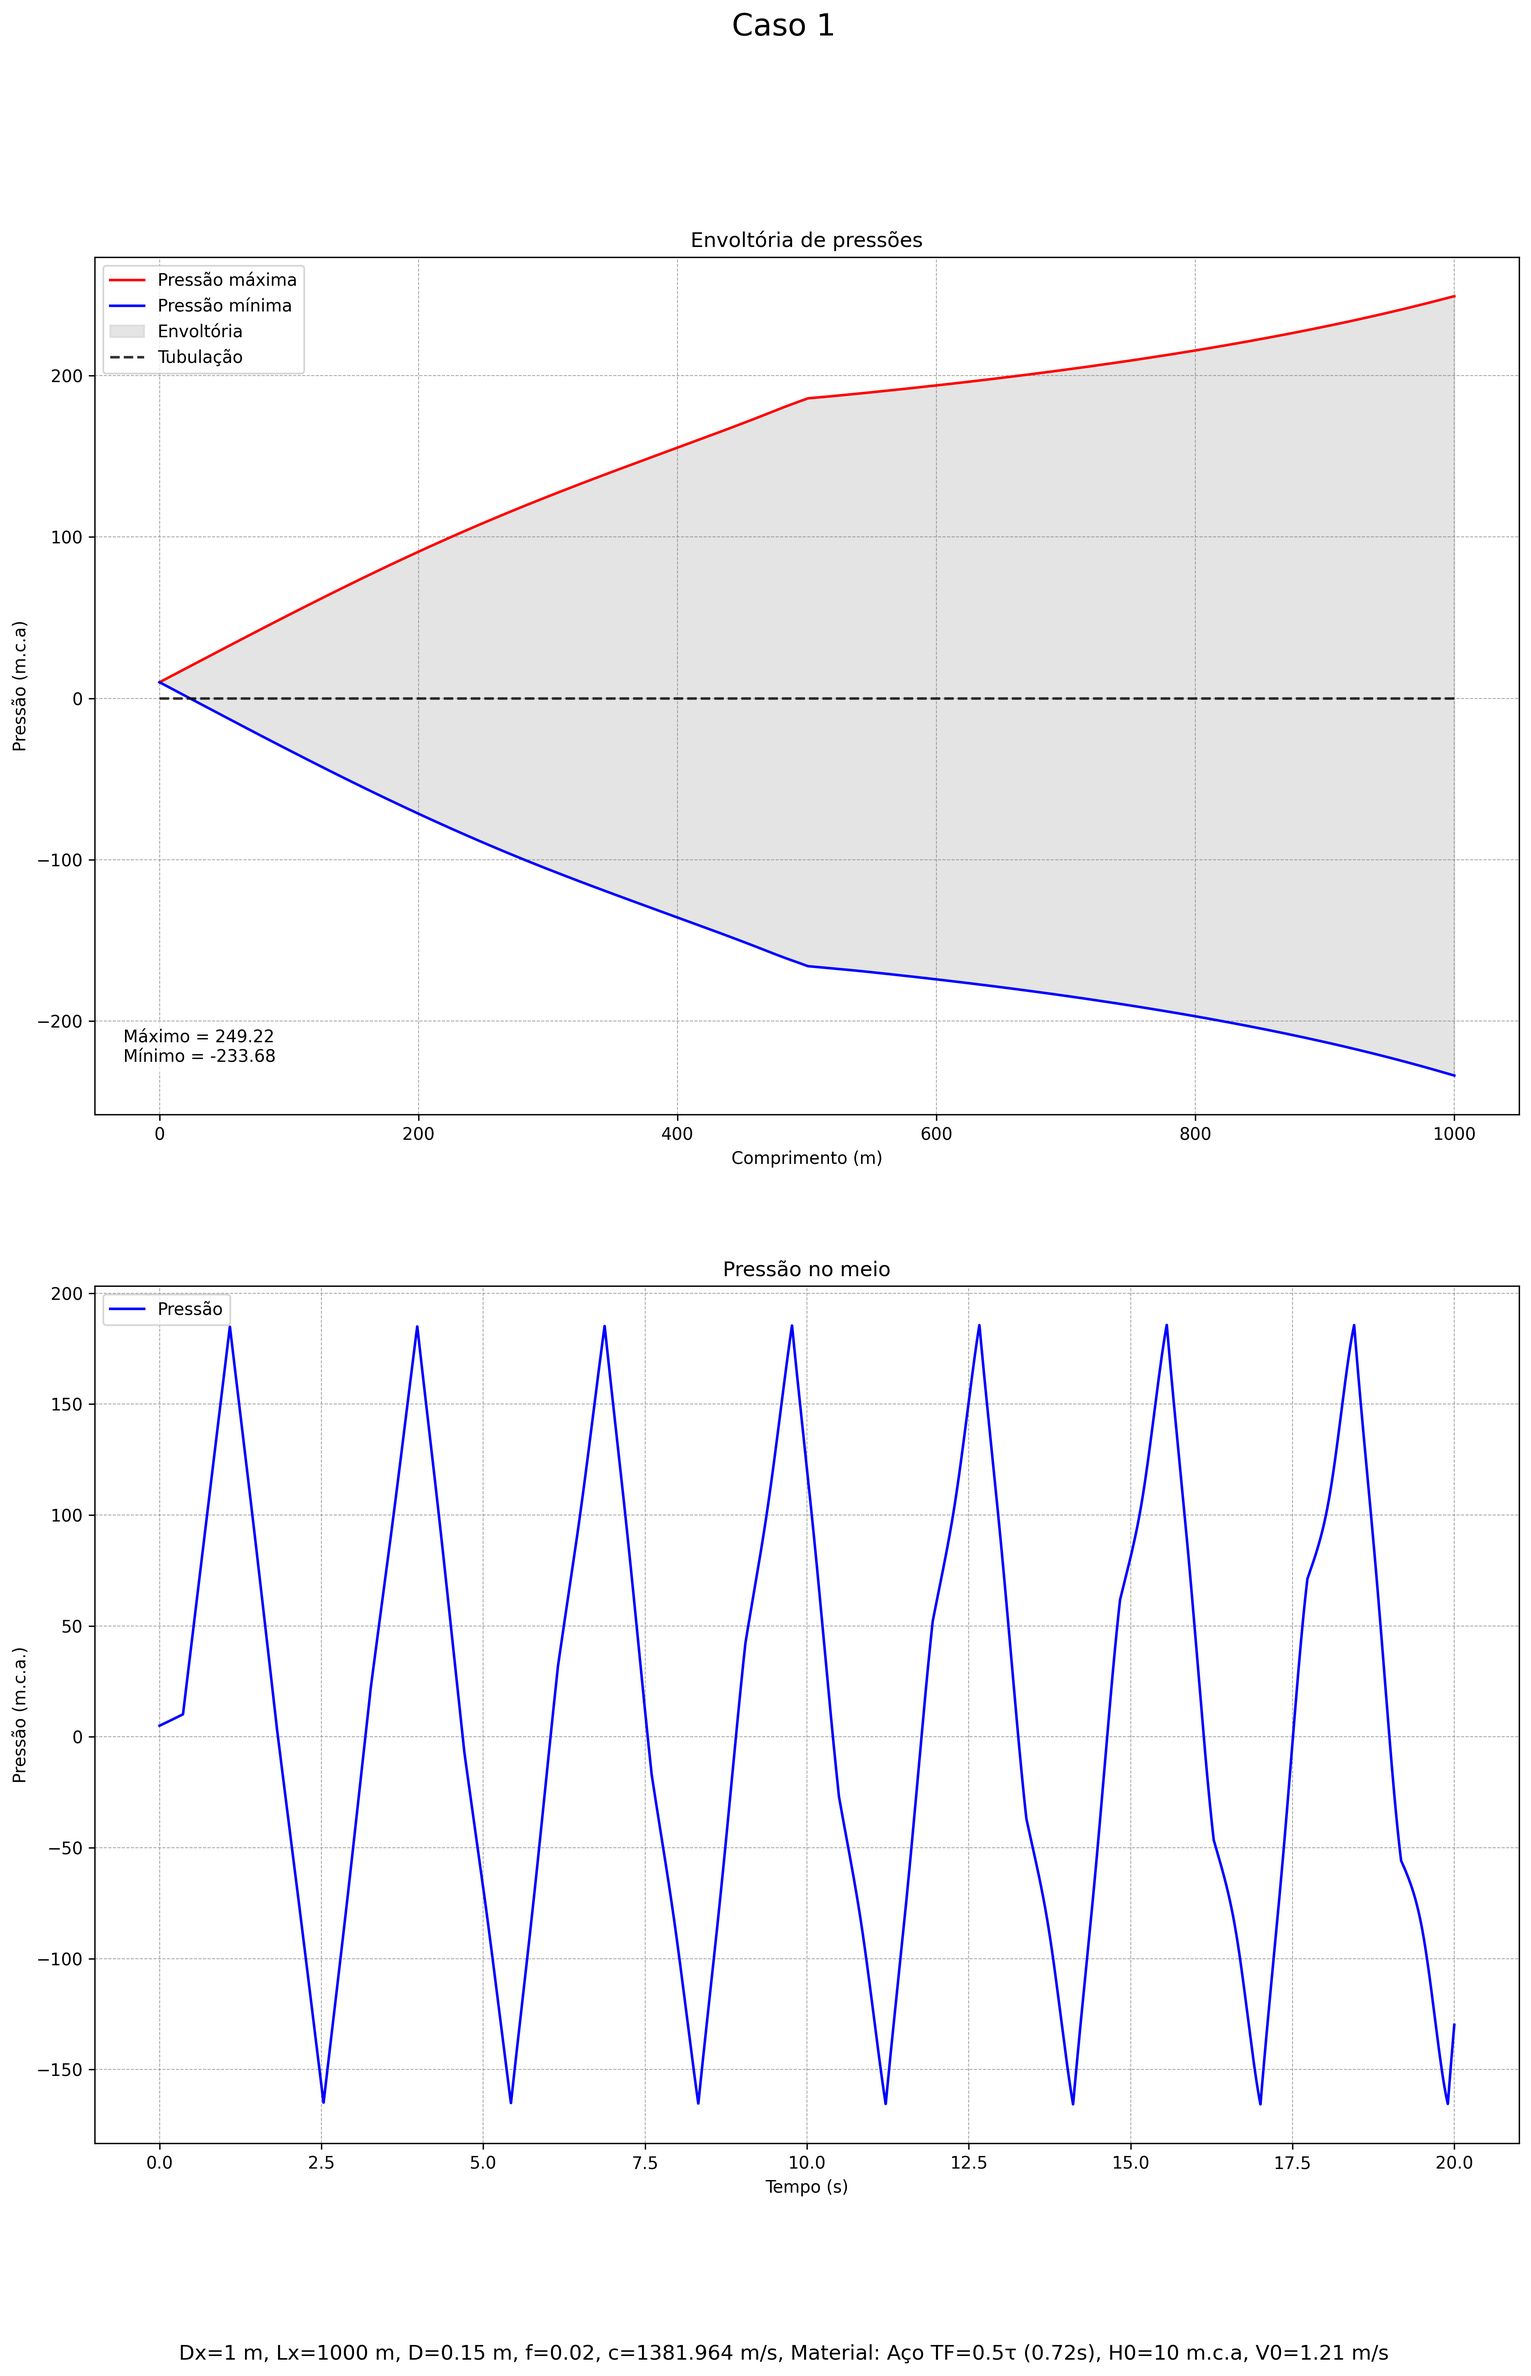
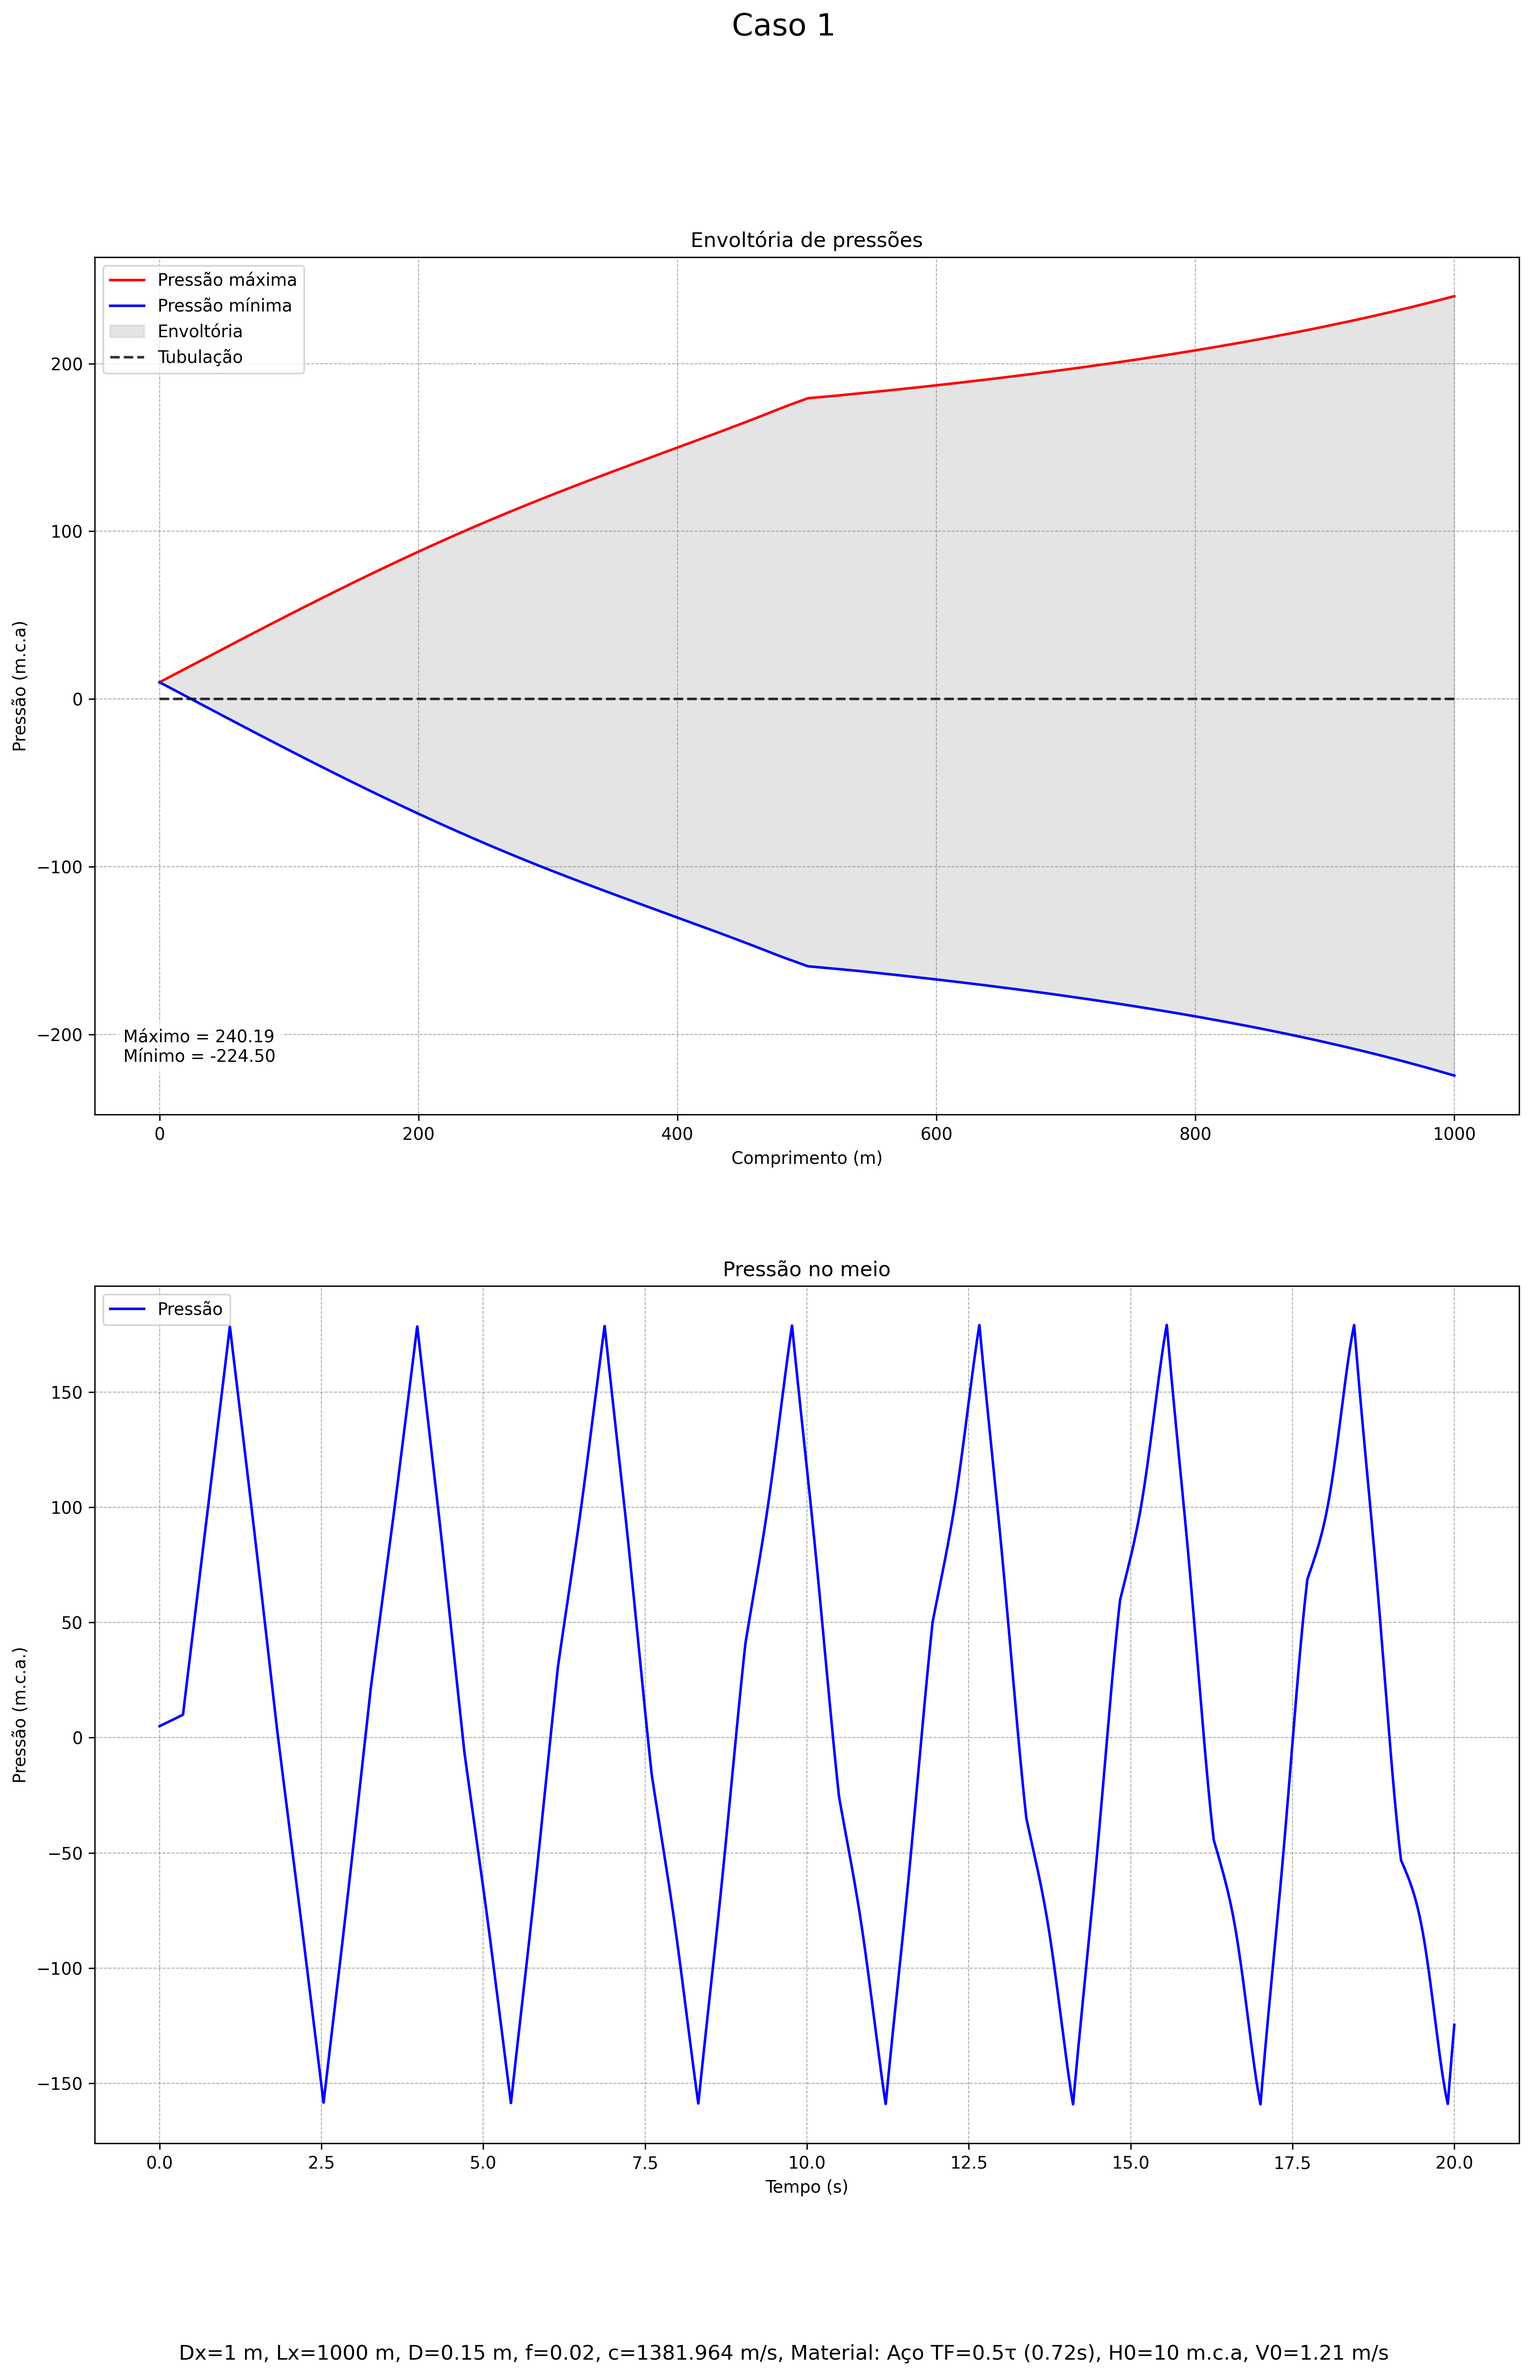
S_06

diff --git a/transiente-hidraulico-moc.py b/transiente-hidraulico-moc.py
@@ -52,8 +52,8 @@ for caso_simulado in tqdm(range(len(casos)), desc="Simulando casos"):
 
 
     # --- COEFICIENTES DO MÉTODO DAS CARACTERÍSTICAS ---
-    Ca = round((g * A0) / c,6)
-    k = round(f * Dt / (2 * D * A0),6)
+    Ca = round((g * A0) / c,5)
+    k = round(f * Dt / (2 * D * A0),5)
 
 
     # --- DISCRETIZAÇÃO ---
